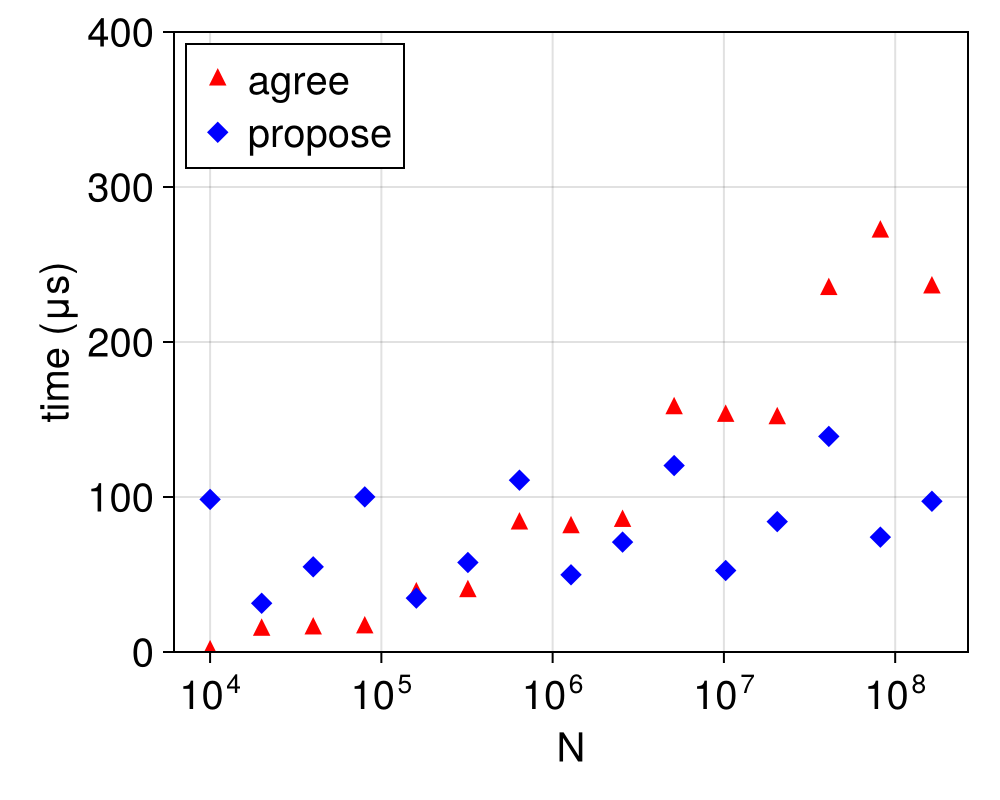
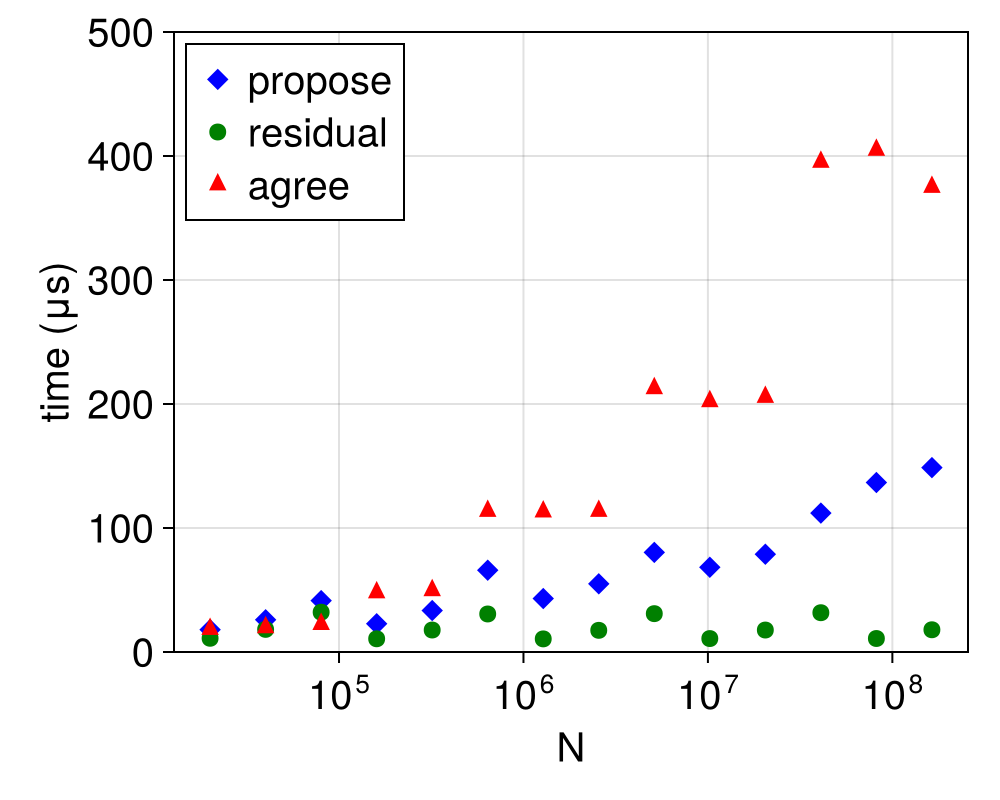
update runtime data

diff --git a/accuracy/dmk_energyshift_accuracy.cpp b/accuracy/dmk_energyshift_accuracy.cpp
@@ -13,7 +13,76 @@
 using namespace hpdmk;
 using namespace std;
 
-void mc_accuracy(int n_src, int n_src_per_leaf, int digits, double L, int rounds) {
+void mc_accuracy_float(int n_src, int n_src_per_leaf, int digits, double L, int rounds) {
+    HPDMKParams params;
+    params.n_per_leaf = n_src_per_leaf;
+    params.digits = digits;
+    params.L = float(L);
+    params.init = DIRECT;
+
+    sctl::Vector<float> r_src(n_src * 3);
+    sctl::Vector<float> charge(n_src);
+
+    sctl::Vector<double> r_src_ref(n_src * 3);
+    sctl::Vector<double> charge_ref(n_src);
+
+    random_init(r_src, 0.0f, float(params.L));
+    random_init(charge, -1.0f, 1.0f);
+    unify_charge(charge);
+
+    for (int i = 0; i < n_src; i++) {
+        r_src_ref[i * 3] = double(r_src[i * 3]);
+        r_src_ref[i * 3 + 1] = double(r_src[i * 3 + 1]);
+        r_src_ref[i * 3 + 2] = double(r_src[i * 3 + 2]);
+        charge_ref[i] = double(charge[i]);
+    }
+
+    double s = 4.0;
+    double alpha = 1.0;
+    Ewald ewald(params.L, s, alpha, 1.0, &charge_ref[0], &r_src_ref[0], n_src);
+    double E_ewald_old = ewald.compute_energy();
+
+    const sctl::Comm sctl_comm(MPI_COMM_WORLD);
+    HPDMKPtTree<float> tree(sctl_comm, params, r_src, charge);
+    tree.form_outgoing_pw();
+    tree.form_incoming_pw();
+
+    std::mt19937 generator;
+    std::uniform_real_distribution<float> distribution(0.0f, float(params.L));
+    std::uniform_int_distribution<int> distribution_int(0, n_src - 1);
+
+    sctl::Vector<float> abs_err(rounds), rel_err(rounds);
+
+    for (int i_trial = 0; i_trial < rounds; i_trial++) {
+        float dx = distribution(generator);
+        float dy = distribution(generator);
+        float dz = distribution(generator);
+        int i_particle = distribution_int(generator);
+
+        auto E_shift = tree.eval_shift_energy(i_particle, dx, dy, dz);
+
+        r_src_ref[i_particle * 3] = my_mod(dx + r_src[i_particle * 3], float(params.L));
+        r_src_ref[i_particle * 3 + 1] = my_mod(dy + r_src[i_particle * 3 + 1], float(params.L));
+        r_src_ref[i_particle * 3 + 2] = my_mod(dz + r_src[i_particle * 3 + 2], float(params.L));
+        
+        Ewald ewald_new(params.L, s, alpha, 1.0, &charge_ref[0], &r_src_ref[0], n_src);
+        double E_ewald_new = ewald_new.compute_energy();
+
+        double E_shift_ewald = E_ewald_new - E_ewald_old;
+
+        abs_err[i_trial] = abs(E_shift_ewald - E_shift);
+        rel_err[i_trial] = abs_err[i_trial] / E_ewald_old;
+
+        r_src_ref[i_particle * 3] = double(r_src[i_particle * 3]);
+        r_src_ref[i_particle * 3 + 1] = double(r_src[i_particle * 3 + 1]);
+        r_src_ref[i_particle * 3 + 2] = double(r_src[i_particle * 3 + 2]);
+    }
+
+    std::cout << "abs_err_mean, rel_err_mean: " << std::accumulate(abs_err.begin(), abs_err.end(), 0.0) / rounds << ", " << std::accumulate(rel_err.begin(), rel_err.end(), 0.0) / rounds << std::endl;
+    std::cout << "abs_err_max, rel_err_max: " << *std::max_element(abs_err.begin(), abs_err.end()) << ", " << *std::max_element(rel_err.begin(), rel_err.end()) << std::endl;
+}
+
+void mc_accuracy_double(int n_src, int n_src_per_leaf, int digits, double L, int rounds) {
     HPDMKParams params;
     params.n_per_leaf = n_src_per_leaf;
     params.digits = digits;
@@ -87,14 +156,19 @@ int main(int argc, char** argv) {
     double L = 20.0;
     int rounds = 100;
 
-    std::cout << "Testing 3 digits accuracy" << std::endl;
-    mc_accuracy(n_src, n_src_per_leaf, 3, L, rounds);
-    std::cout << "Testing 6 digits accuracy" << std::endl;
-    mc_accuracy(n_src, n_src_per_leaf, 6, L, rounds);
-    std::cout << "Testing 9 digits accuracy" << std::endl;
-    mc_accuracy(n_src, n_src_per_leaf, 9, L, rounds);
-    std::cout << "Testing 12 digits accuracy" << std::endl;
-    mc_accuracy(n_src, n_src_per_leaf, 12, L, rounds);
+    std::cout << "Testing 3 digits accuracy for float precision" << std::endl;
+    mc_accuracy_float(n_src, n_src_per_leaf, 3, L, rounds);
+    std::cout << "Testing 6 digits accuracy for float precision" << std::endl;
+    mc_accuracy_float(n_src, n_src_per_leaf, 6, L, rounds);
+
+    std::cout << "Testing 3 digits accuracy for double precision" << std::endl;
+    mc_accuracy_double(n_src, n_src_per_leaf, 3, L, rounds);
+    std::cout << "Testing 6 digits accuracy for double precision" << std::endl;
+    mc_accuracy_double(n_src, n_src_per_leaf, 6, L, rounds);
+    std::cout << "Testing 9 digits accuracy for double precision" << std::endl;
+    mc_accuracy_double(n_src, n_src_per_leaf, 9, L, rounds);
+    std::cout << "Testing 12 digits accuracy for double precision" << std::endl;
+    mc_accuracy_double(n_src, n_src_per_leaf, 12, L, rounds);
 
 
     MPI_Finalize();

diff --git a/benchmark/dmk_energyshift_runtime.cpp b/benchmark/dmk_energyshift_runtime.cpp
@@ -38,6 +38,7 @@ void mc_runtime(int n_src, int n_src_per_leaf, int digits, double L, int rounds)
 
     double t_eval = 0.0;
     double t_update = 0.0;
+    double t_res = 0.0;
 
     for (int n_threads = 1; n_threads <= 1; n_threads *= 2) {
         omp_set_num_threads(n_threads);
@@ -46,24 +47,31 @@ void mc_runtime(int n_src, int n_src_per_leaf, int digits, double L, int rounds)
             int idx = distribution_int(generator);
             int mapped_idx = tree.indices_invmap[idx];
 
-            double dx = distribution(generator);
-            double dy = distribution(generator);
-            double dz = distribution(generator);
+            float dx = distribution(generator);
+            float dy = distribution(generator);
+            float dz = distribution(generator);
 
-            double q = 1.0;
-            double x_o = r_src[idx * 3];
-            double y_o = r_src[idx * 3 + 1];
-            double z_o = r_src[idx * 3 + 2];
+            float q = 1.0f;
+            float x_o = r_src[idx * 3];
+            float y_o = r_src[idx * 3 + 1];
+            float z_o = r_src[idx * 3 + 2];
 
-            double x_t = hpdmk::my_mod(x_o + dx, params.L);
-            double y_t = hpdmk::my_mod(y_o + dy, params.L);
-            double z_t = hpdmk::my_mod(z_o + dz, params.L);
+            float x_t = hpdmk::my_mod(x_o + dx, float(params.L));
+            float y_t = hpdmk::my_mod(y_o + dy, float(params.L));
+            float z_t = hpdmk::my_mod(z_o + dz, float(params.L));
 
             auto start = std::chrono::high_resolution_clock::now();
             tree.eval_shift_energy(idx, dx, dy, dz);
             auto end = std::chrono::high_resolution_clock::now();
             std::chrono::duration<double> time = end - start;
             t_eval += time.count();
+
+            start = std::chrono::high_resolution_clock::now();
+            tree.eval_shift_energy_res_vec(idx, tree.path_to_origin, x_o, y_o, z_o, q);
+            tree.eval_shift_energy_res_vec(idx, tree.path_to_target, x_t, y_t, z_t, q);
+            end = std::chrono::high_resolution_clock::now();
+            time = end - start;
+            t_res += time.count();
 
             start = std::chrono::high_resolution_clock::now();
             tree.update_shift(idx, dx, dy, dz);
@@ -74,11 +82,12 @@ void mc_runtime(int n_src, int n_src_per_leaf, int digits, double L, int rounds)
         
         t_eval /= rounds;
         t_update /= rounds;
+        t_res /= rounds;
 
-        std::cout << "time update: " << t_update << ", time eval: " << t_eval << std::endl;
+        std::cout << "time update: " << t_update << ", time eval: " << t_eval << ", time res: " << t_res << std::endl;
 
         std::ofstream outfile("data/dmk_energyshift_runtime.csv", std::ios::app);
-        outfile << n_src << "," << n_src_per_leaf << "," << digits << "," << L << "," << depth << "," << n_threads << "," << t_update << "," << t_eval << std::endl;
+        outfile << n_src << "," << n_src_per_leaf << "," << digits << "," << L << "," << depth << "," << n_threads << "," << t_update << "," << t_eval << "," << t_res << std::endl;
         outfile.close();
     }
 }
@@ -89,19 +98,22 @@ int main(int argc, char** argv) {
     double rho_0 = 200.0;
 
     std::ofstream outfile("data/dmk_energyshift_runtime.csv");
-    outfile << "n_src,n_src_per_leaf,digits,L,depth,n_threads,time_update,time_shift" << std::endl;
+    outfile << "n_src,n_src_per_leaf,digits,L,depth,n_threads,time_update,time_shift,time_res" << std::endl;
     outfile.close();
 
-    for (int scale = 0; scale < 15; scale+=1) {
+    for (int scale = 1; scale < 15; scale+=1) {
         int n_src = int(std::ceil(10000 * std::pow(2.0, scale)) / 2) * 2;
         int n_src_per_leaf = 200;
         int digits = 3;
         double L = std::pow(n_src / rho_0, 1.0 / 3.0);
         int rounds = 10000;
+        int trials = 10;
 
         std::cout << "n_src: " << n_src << ", n_src_per_leaf: " << n_src_per_leaf << ", digits: " << digits << ", L: " << L << ", density: " << n_src / (L * L * L) << std::endl;
 
-        mc_runtime(n_src, n_src_per_leaf, digits, L, rounds);
+        for (int i = 0; i < trials; i++) {
+            mc_runtime(n_src, n_src_per_leaf, digits, L, rounds);
+        }
     }
 
     MPI_Finalize();

diff --git a/src/energy_shift.cpp b/src/energy_shift.cpp
@@ -276,20 +276,21 @@ namespace hpdmk {
         Real r_src_i[3] = {x, y, z};
 
         int n_trg = 0;
+        int offset = 0;
         sctl::Long j_particle;
 
         // self interaction
         if (node_particles[i_node].Dim() > 0) {
+            #pragma omp simd
             for (int i = 0; i < node_particles[i_node].Dim(); ++i) {
-
                 j_particle = node_particles[i_node][i];
                 if (j_particle == i_particle) continue;
-                vec_trg[3 * n_trg] = r_src_sorted[j_particle * 3];
-                vec_trg[3 * n_trg + 1] = r_src_sorted[j_particle * 3 + 1];
-                vec_trg[3 * n_trg + 2] = r_src_sorted[j_particle * 3 + 2];
-                q_trg[n_trg] = charge_sorted[j_particle];
-                n_trg++;
+                vec_trg[3 * (offset + i)] = r_src_sorted[j_particle * 3];
+                vec_trg[3 * (offset + i) + 1] = r_src_sorted[j_particle * 3 + 1];
+                vec_trg[3 * (offset + i) + 2] = r_src_sorted[j_particle * 3 + 2];
+                q_trg[offset + i] = charge_sorted[j_particle];
             }
+            offset += node_particles[i_node].Dim();
         }
 
         // colleague interaction
@@ -299,16 +300,16 @@ namespace hpdmk {
                 Real dcx = centers[i_node * 3] - centers[i_nbr * 3] ;
                 Real dcy = centers[i_node * 3 + 1] - centers[i_nbr * 3 + 1];
                 Real dcz = centers[i_node * 3 + 2] - centers[i_nbr * 3 + 2];
-
+                #pragma omp simd
                 for (int i = 0; i < node_particles[i_nbr].Dim(); ++i) {
                     j_particle = node_particles[i_nbr][i];
                     if (j_particle == i_particle) continue;
-                    vec_trg[3 * n_trg] = r_src_sorted[j_particle * 3] + dcx + shift_ij[0];
-                    vec_trg[3 * n_trg + 1] = r_src_sorted[j_particle * 3 + 1] + dcy + shift_ij[1];
-                    vec_trg[3 * n_trg + 2] = r_src_sorted[j_particle * 3 + 2] + dcz + shift_ij[2];
-                    q_trg[n_trg] = charge_sorted[j_particle];
-                    n_trg++;
+                    vec_trg[3 * (offset + i)] = r_src_sorted[j_particle * 3] + dcx + shift_ij[0];
+                    vec_trg[3 * (offset + i) + 1] = r_src_sorted[j_particle * 3 + 1] + dcy + shift_ij[1];
+                    vec_trg[3 * (offset + i) + 2] = r_src_sorted[j_particle * 3 + 2] + dcz + shift_ij[2];
+                    q_trg[offset + i] = charge_sorted[j_particle];
                 }
+                offset += node_particles[i_nbr].Dim();
             }
         }
 
@@ -318,18 +319,20 @@ namespace hpdmk {
                 Real dcx = centers[i_node * 3] - centers[i_nbr * 3] ;
                 Real dcy = centers[i_node * 3 + 1] - centers[i_nbr * 3 + 1];
                 Real dcz = centers[i_node * 3 + 2] - centers[i_nbr * 3 + 2];
-
+                #pragma omp simd
                 for (int i = 0; i < node_particles[i_nbr].Dim(); ++i) {
                     j_particle = node_particles[i_nbr][i];
                     if (j_particle == i_particle) continue;
-                    vec_trg[3 * n_trg] = r_src_sorted[j_particle * 3] + dcx + shift_ij[0];
-                    vec_trg[3 * n_trg + 1] = r_src_sorted[j_particle * 3 + 1] + dcy + shift_ij[1];
-                    vec_trg[3 * n_trg + 2] = r_src_sorted[j_particle * 3 + 2] + dcz + shift_ij[2];
-                    q_trg[n_trg] = charge_sorted[j_particle];
-                    n_trg++;
+                    vec_trg[3 * (offset + i)] = r_src_sorted[j_particle * 3] + dcx + shift_ij[0];
+                    vec_trg[3 * (offset + i) + 1] = r_src_sorted[j_particle * 3 + 1] + dcy + shift_ij[1];
+                    vec_trg[3 * (offset + i) + 2] = r_src_sorted[j_particle * 3 + 2] + dcz + shift_ij[2];
+                    q_trg[offset + i] = charge_sorted[j_particle];
                 }
+                offset += node_particles[i_nbr].Dim();
             }
         }
+
+        n_trg = offset;
 
         dE_rt = direct_eval<Real>(&r_src_i[0], &charge_sorted[i_particle], n_trg, &vec_trg[0], &q_trg[0], boxsize[i_depth], n_digits);
 

diff --git a/test/direct_eval_test.cpp b/test/direct_eval_test.cpp
@@ -58,6 +58,32 @@ TEST(DirectEvalTest, BasicAssertions) {
     std::mt19937 generator;
     std::uniform_real_distribution<double> distribution(-1.0, 1.0);
 
+    for (int n_digits_ = 3; n_digits_ <= 6; n_digits_ += 3) {
+        float r_src[] = {0.1f, 0.2f, 0.3f};
+        float q_src = 0.5f;
+
+        for (int n_trg : n_trgs) {
+            sctl::Vector<float> r_trg(n_trg * 3);
+            sctl::Vector<float> q_trg(n_trg);
+            for (int i = 0; i < n_trg; i++) {
+                r_trg[i * 3] = distribution(generator);
+                r_trg[i * 3 + 1] = distribution(generator);
+                r_trg[i * 3 + 2] = distribution(generator);
+                q_trg[i] = distribution(generator);
+            }
+
+            float cutoff = 0.8f;
+            int n_digits = n_digits_;
+
+            float res_direct = residual_direct_sum<float>(&r_src[0], &q_src, n_trg, &r_trg[0], &q_trg[0], cutoff, n_digits);
+
+            float res = direct_eval<float>(&r_src[0], &q_src, n_trg, &r_trg[0], &q_trg[0], cutoff, n_digits);
+
+            // std::cout << "n_digits: " << n_digits << ", res: " << res << ", res_direct: " << res_direct << ", error: " << std::abs(res - res_direct) << std::endl;
+            ASSERT_LT(std::abs(res - res_direct), std::pow(10.0f, -n_digits));
+        }
+    }
+
     for (int n_digits_ = 3; n_digits_ <= 12; n_digits_ += 3) {
         double r_src[] = {0.1, 0.2, 0.3};
         double q_src = 0.5;

diff --git a/src/tree.cpp b/src/tree.cpp
@@ -500,9 +500,9 @@ namespace hpdmk {
             
             for (int i_nbr : neighbors[node_i].colleague) {
 
-                // if (isleaf(node_attr[i_nbr])) {
-                //     continue;
-                // }
+                if (isleaf(node_attr[i_nbr])) {
+                    continue;
+                }
 
                 auto &incoming_pw_i = incoming_pw[i_nbr];
 
@@ -549,9 +549,9 @@ namespace hpdmk {
 
             for (int i_nbr : neighbors[node_i].colleague) {
 
-                // if (isleaf(node_attr[i_nbr])) {
-                //     continue;
-                // }
+                if (isleaf(node_attr[i_nbr])) {
+                    continue;
+                }
 
                 auto &incoming_pw_i = incoming_pw[i_nbr];
 
